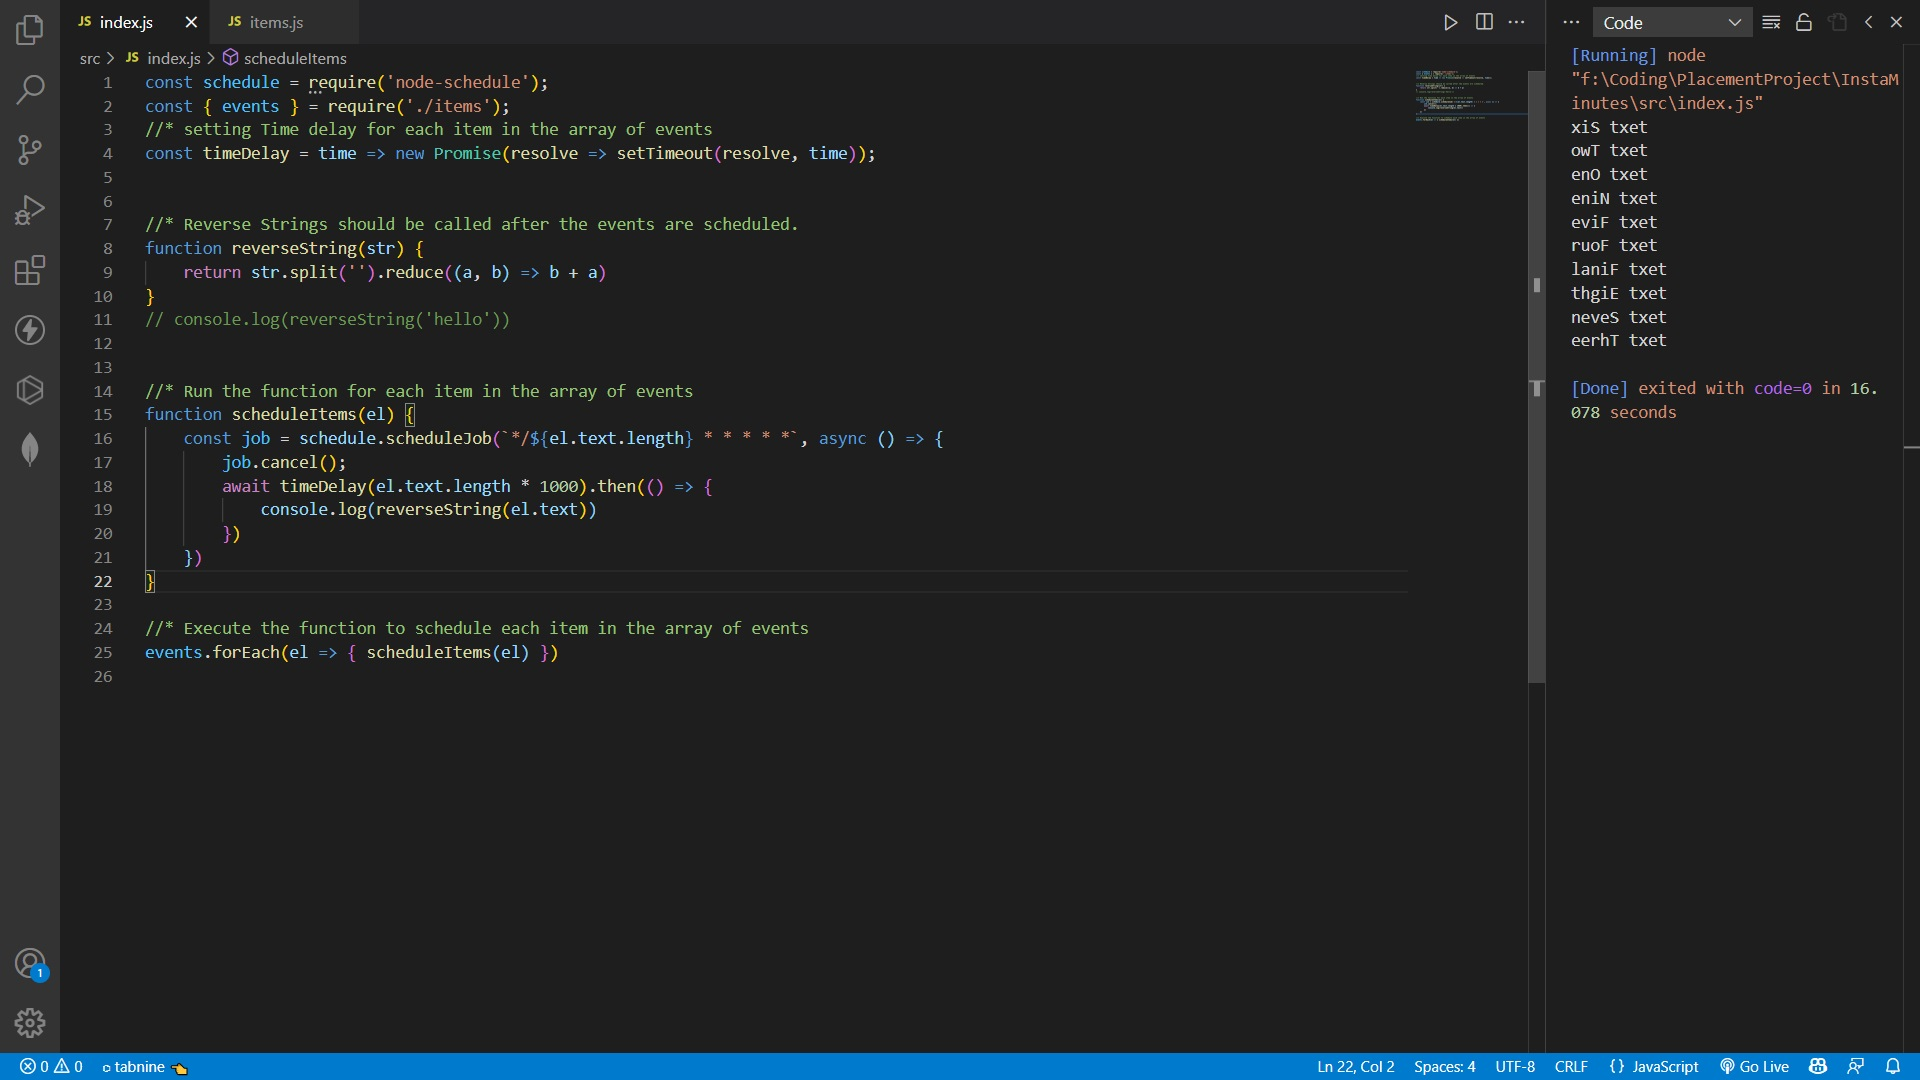
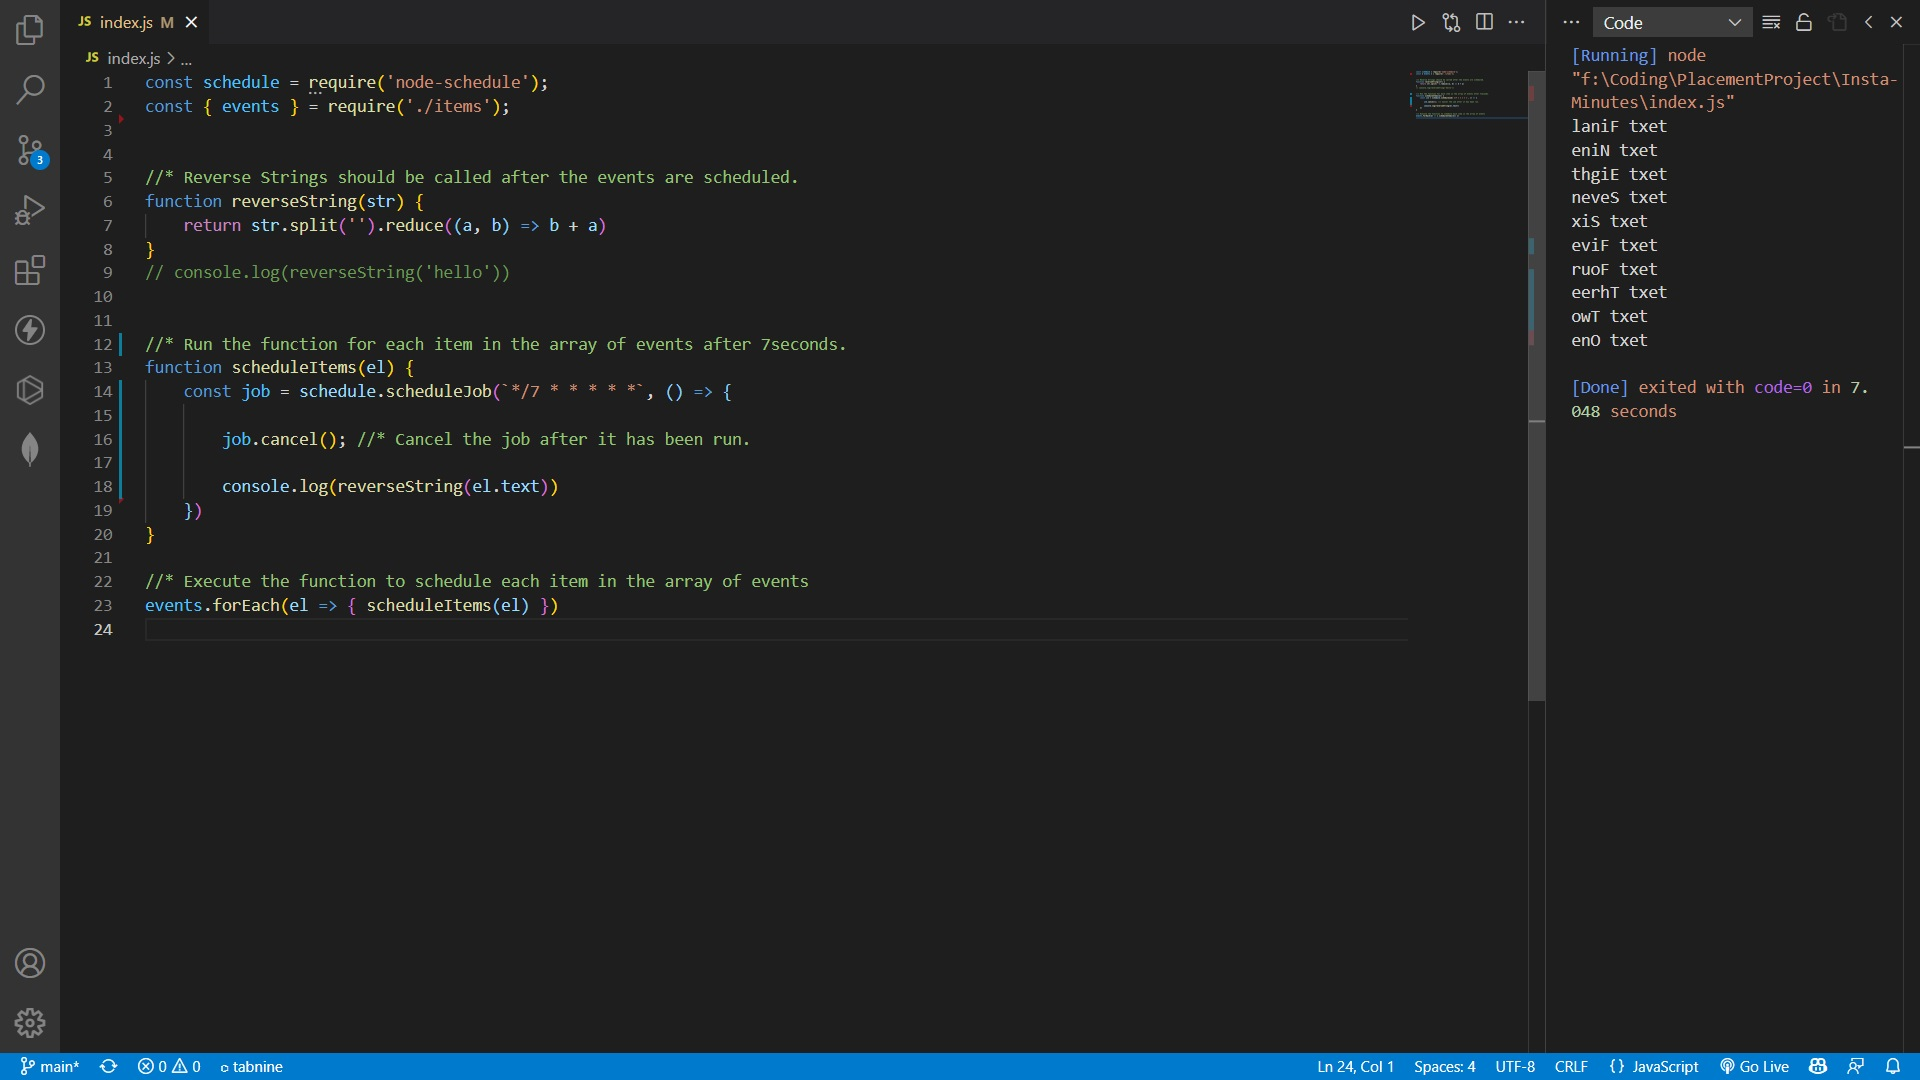
instaMinutes-Assignments

diff --git a/index.js b/index.js
@@ -1,7 +1,5 @@
 const schedule = require('node-schedule');
 const { events } = require('./items');
-//* setting Time delay for each item in the array of events 
-const timeDelay = time => new Promise(resolve => setTimeout(resolve, time));
 
 
 //* Reverse Strings should be called after the events are scheduled.
@@ -11,13 +9,13 @@ function reverseString(str) {
 // console.log(reverseString('hello'))
 
 
-//* Run the function for each item in the array of events 
+//* Run the function for each item in the array of events after 7seconds.
 function scheduleItems(el) {
-    const job = schedule.scheduleJob(`*/${el.text.length} * * * * *`, async () => {
-        job.cancel();
-        await timeDelay(el.text.length * 1000).then(() => {
-            console.log(reverseString(el.text))
-        })
+    const job = schedule.scheduleJob(`*/7 * * * * *`, () => {
+
+        job.cancel(); //* Cancel the job after it has been run.
+        
+        console.log(reverseString(el.text))
     })
 }
 
